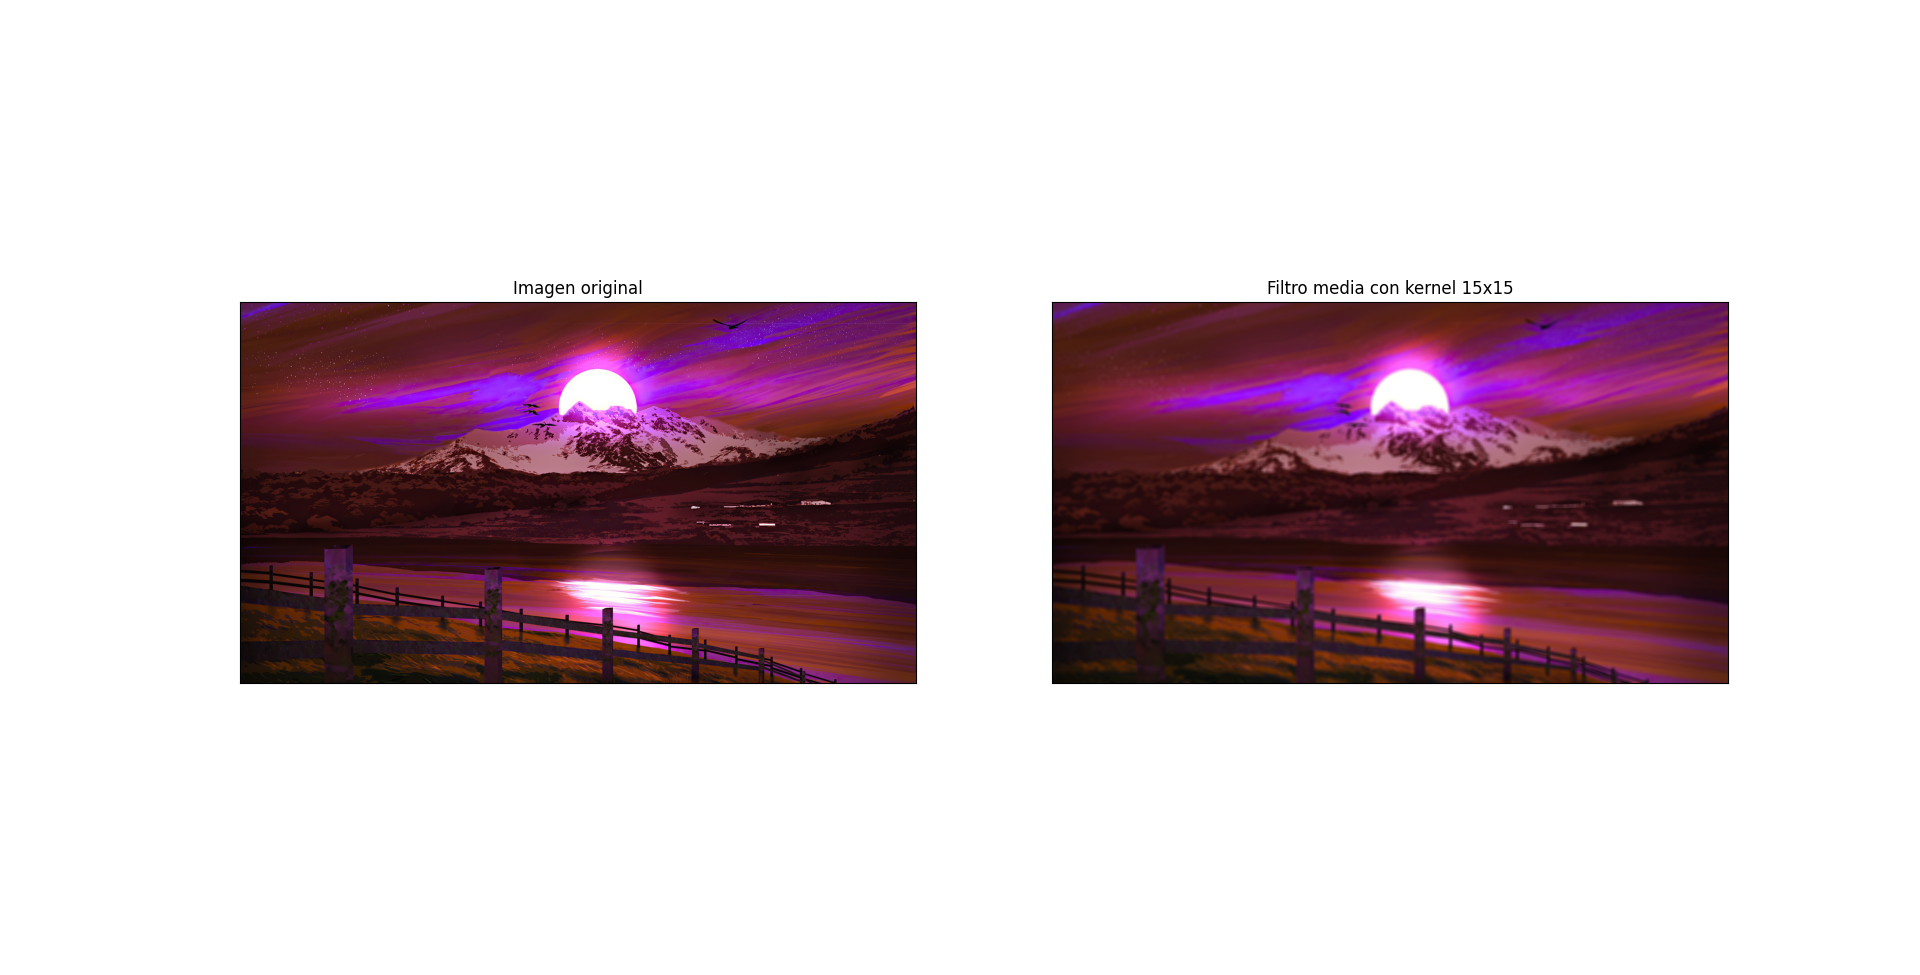
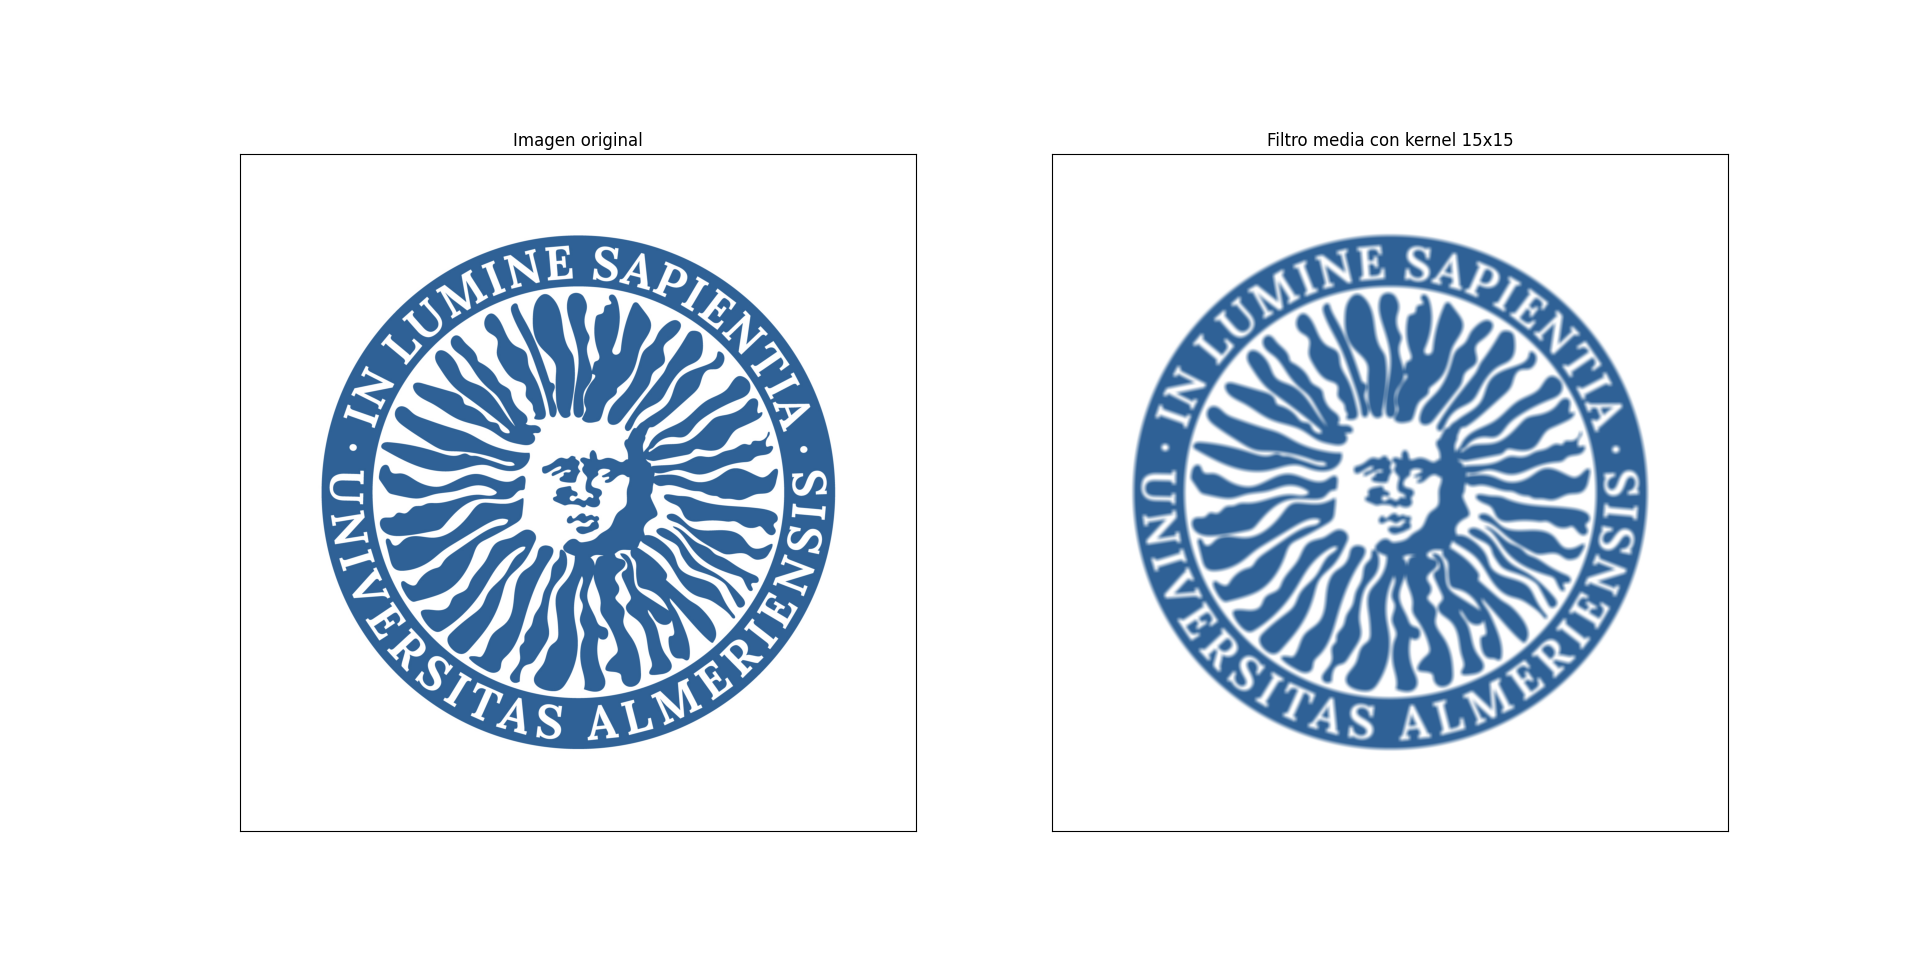
Cambios varios

diff --git a/filtros/test.py b/filtros/test.py
@@ -1,0 +1,86 @@
+from re import X
+import numpy as np
+import cv2
+import matplotlib.pyplot as plt
+import argparse
+
+# To execute .\roberts.py -i IMAGEPATH
+
+# Argument parser.
+ap = argparse.ArgumentParser()
+ap.add_argument("-i", "--image", required=True,
+                help="Image path or name if in the same folder")
+
+ap.add_argument("-a", "--axis", required=False,
+                help="1 for the horizontal axis, 2 for the vertical axis, none for X & Y")
+
+
+args = vars(ap.parse_args())
+
+# Read the image and convert to grayscale
+image = cv2.imread(args["image"])
+image = cv2.cvtColor(image, cv2.COLOR_BGR2RGB)
+
+# Check if not exist
+if image is None:
+    print("Image not found")
+    exit(0)
+
+axisarg = args["axis"]
+
+if axisarg is 1:
+    gx = np.array([[1, 0], [0, -1]])
+    robert = cv2.filter2D(image, -1, gx)
+
+elif axisarg == 2:
+    gy = np.array([[0, 1], [-1, 0]])
+    robert = cv2.filter2D(image, -1, gy)
+
+else:
+    gx = np.array([[1, 0], [0, -1]])
+    gy = np.array([[0, 1], [-1, 0]])
+    imagex = cv2.filter2D(image, -1, gx)
+    imagey = cv2.filter2D(image, -1, gy)
+    robert = cv2.addWeighted(imagex, 0.5, imagey, 0.5, 0)
+
+'''
+else:
+    gx = np.array([[1, 0], [0, -1]])
+    gy = np.array([[0, 1], [-1, 0]])
+    imagex = cv2.filter2D(image, -1, gx)
+    imagey = cv2.filter2D(image, -1, gy)
+    robert = cv2.addWeighted(imagex, 0.5, imagey, 0.5, 0)
+
+
+# Mask Gx
+gx = np.array([[1, 0],
+              [0, -1]])
+
+# Mask Gy
+gy = np.array([[0, 1],
+              [-1, 0]])
+
+# Apply filter to image
+imagex = cv2.filter2D(image, -1, gx)
+imagey = cv2.filter2D(image, -1, gy)
+
+# Calculate gradient
+grad = cv2.addWeighted(imagex, 0.5, imagey, 0.5, 0)'''
+
+
+# Original
+plt.subplot(121)
+plt.imshow(image)
+plt.title("Imagen original")
+plt.xticks([]), plt.yticks([])
+
+# Filtered image
+plt.subplot(122)
+plt.imshow(robert)
+plt.title('Filtro realce Roberts')
+plt.xticks([]), plt.yticks([])
+
+plt.show()
+
+cv2.waitKey(0)
+cv2.destroyAllWindows()

diff --git a/filtros/roberts.py b/filtros/roberts.py
@@ -1,0 +1,83 @@
+from re import X
+import numpy as np
+import cv2
+import matplotlib.pyplot as plt
+import argparse
+
+# To execute .\roberts.py -i IMAGEPATH
+
+# Argument parser.
+ap = argparse.ArgumentParser()
+ap.add_argument("-i", "--image", required=True,
+                help="Image path or name if in the same folder")
+
+ap.add_argument("-a", "--axis", required=False,
+                help="1 for the horizontal axis, 2 for the vertical axis, none for X & Y")
+
+
+args = vars(ap.parse_args())
+
+# Read the image and convert to grayscale
+image = cv2.imread(args["image"])
+image = cv2.cvtColor(image, cv2.COLOR_BGR2RGB)
+
+# Check if not exist
+if image is None:
+    print("Image not found")
+    exit(0)
+
+axisarg = args["axis"]
+
+def axis(axisarg):
+    if axisarg == 1:
+        gx = np.array([[1, 0], [0, -1]])
+        robert = cv2.filter2D(image, -1, gx)
+        return robert
+
+    elif axisarg == 2:
+        gy = np.array([[0, 1], [-1, 0]])
+        robert = cv2.filter2D(image, -1, gy)
+        return robert
+
+    else:
+        gx = np.array([[1, 0], [0, -1]])
+        gy = np.array([[0, 1], [-1, 0]])
+        imagex = cv2.filter2D(image, -1, gx)
+        imagey = cv2.filter2D(image, -1, gy)
+        robert = cv2.addWeighted(imagex, 0.5, imagey, 0.5, 0)
+        return robert
+
+robert = axis('axisarg')
+'''
+# Mask Gx
+gx = np.array([[1, 0],
+              [0, -1]])
+
+# Mask Gy
+gy = np.array([[0, 1],
+              [-1, 0]])
+
+# Apply filter to image
+imagex = cv2.filter2D(image, -1, gx)
+imagey = cv2.filter2D(image, -1, gy)
+
+# Calculate gradient
+grad = cv2.addWeighted(imagex, 0.5, imagey, 0.5, 0)'''
+
+
+# Original
+plt.subplot(121)
+plt.imshow(image)
+plt.title("Imagen original")
+plt.xticks([]), plt.yticks([])
+
+# Filtered image
+plt.subplot(122)
+plt.imshow(robert)
+plt.title('Filtro realce Roberts')
+plt.xticks([]), plt.yticks([])
+
+plt.show()
+
+cv2.waitKey(0)
+cv2.destroyAllWindows()

diff --git a/histograma/color.py b/histograma/color.py
@@ -3,7 +3,7 @@ import cv2
 import matplotlib.pyplot as plt
 import argparse
 
-# To execute .\color.py -i NOMBREIMAGEN
+# To execute .\color.py -i IMAGEPATH
 
 # Argument parser.
 ap = argparse.ArgumentParser()
@@ -34,7 +34,7 @@ for i, col in enumerate(color):
     histr = cv2.calcHist([image], [i], None, [256], [0, 256])
     plt.plot(histr, color=col)
     plt.xlim([0, 256])
-    plt.xlabel("Niveles de gris")
+    plt.xlabel("Niveles de color")
     plt.ylabel("Frecuencia relativa")
     ax2.set_title('Histograma RGB')
 plt.show()

diff --git a/filtros/mediana.py b/filtros/mediana.py
@@ -3,7 +3,7 @@ import cv2
 import matplotlib.pyplot as plt
 import argparse
 
-# To execute .\mediana.py -i NOMBREIMAGEN -k KERNELSIZE
+# To execute .\mediana.py -i IMAGEPATH -k KERNELSIZE
 
 # Argument parser.
 ap = argparse.ArgumentParser()
@@ -26,8 +26,8 @@ if image is None:
 # Processing kernel size,
 ksize = args["kernel"]
 
-if ksize is None or ksize % 2 != 1 :
-    ksize = 3 
+if ksize is None or ksize % 2 != 1:
+    ksize = 3
 
 # Apply blur with ksize*ksize
 mediana = cv2.medianBlur(image, ksize)

diff --git a/filtros/gauss.py b/filtros/gauss.py
@@ -3,7 +3,7 @@ import cv2
 import matplotlib.pyplot as plt
 import argparse
 
-# To execute .\media.py -i NOMBREIMAGEN -k KERNELSIZE
+# To execute .\media.py -i IMAGEPATH -k KERNELSIZE
 
 # Argument parser.
 ap = argparse.ArgumentParser()

diff --git a/filtros/media.py b/filtros/media.py
@@ -3,7 +3,7 @@ import cv2
 import matplotlib.pyplot as plt
 import argparse
 
-# To execute .\media.py -i NOMBREIMAGEN -k KERNELSIZE
+# To execute .\media.py -i IMAGEPATH -k KERNELSIZE
 
 # Argument parser.
 ap = argparse.ArgumentParser()

diff --git a/histograma/ecualizacion.py b/histograma/ecualizacion.py
@@ -3,7 +3,7 @@ import cv2
 import matplotlib.pyplot as plt
 import argparse
 
-# To execute .\ecualizacion.py -i NOMBREIMAGEN
+# To execute .\ecualizacion.py -i IMAGEPATH
 
 # Argument parser.
 ap = argparse.ArgumentParser()

diff --git a/histograma/gris.py b/histograma/gris.py
@@ -3,7 +3,7 @@ import cv2
 import matplotlib.pyplot as plt
 import argparse
 
-# To execute .\gris.py -i NOMBREIMAGEN
+# To execute .\gris.py -i IMAGEPATH
 
 # Argument parser.
 ap = argparse.ArgumentParser()
